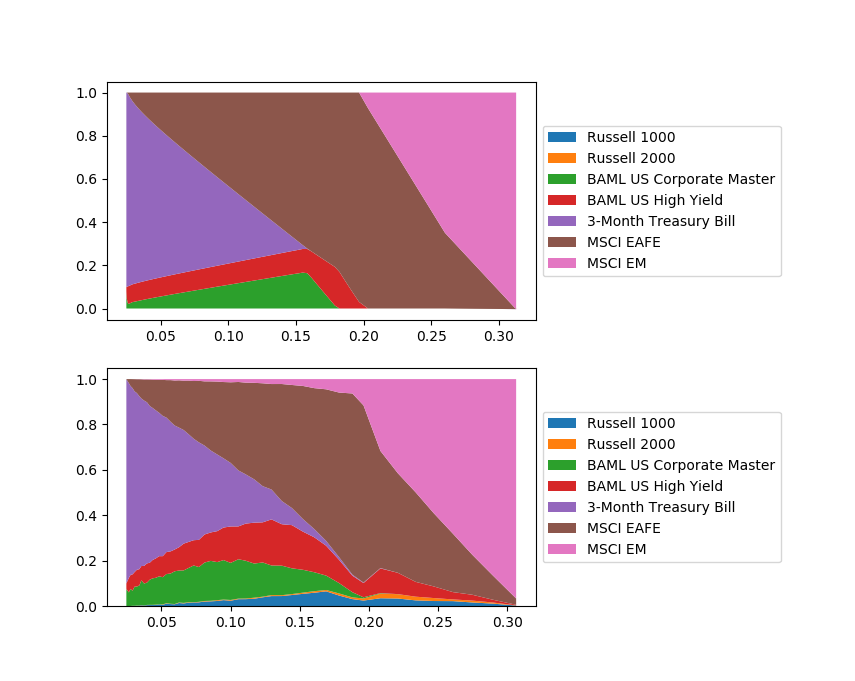
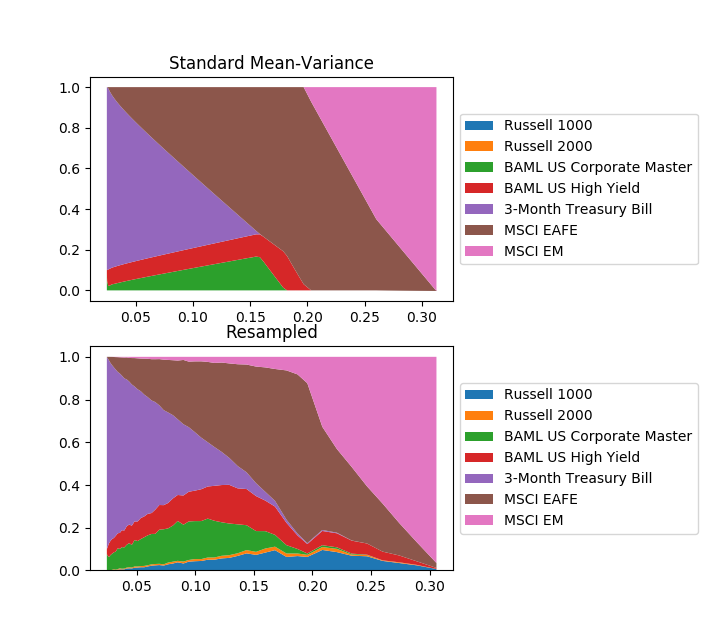
HW2

diff --git a/HW2/HW2.py b/HW2/HW2.py
@@ -9,6 +9,7 @@ import pandas as pd
 import numpy as np
 import matplotlib.pyplot as plt
 from optPort import efficient_frontier,stats
+from BlackLitterman import BL_exp_ret
 
 
 
@@ -110,8 +111,7 @@ def main():
     std_upper = np.amax(std_0)
     
     
-    plt.plot(std_0,mu_0)
-    plt.show()
+
 
     
     stat = np.zeros([1,9]) # 1 + 1 + n
@@ -147,18 +147,26 @@ def main():
         mu = np.append(mu,mu_1)
         std = np.append(std,std_1)
     
-    plt.plot(std, mu, 'r--')
+    [exp_ret_BL,cov_BL] = BL_exp_ret(exp_ret, cov)
+    [mu_BL, std_BL, w_BL] = efficient_frontier(exp_ret_BL,cov_BL,r_min)
+    
+    plt.plot(std_0,mu_0, label = 'Standard Mean-Variance')
+    plt.plot(std, mu, 'r--', label = 'Resampled')
+    plt.plot(std_BL, mu_BL, 'c:', label = 'Black-Litterman Expected Return')
+    plt.title('Efficient Frontier')
+    plt.legend()
     
     plt.figure()
     plt.subplot2grid((2,3),(0,0),colspan=2)
     plt.stackplot(std_0,w_0.T)
+    plt.title('Standard Mean-Variance')
     plt.legend(['Russell 1000', 'Russell 2000', 'BAML US Corporate Master', 
      'BAML US High Yield', '3-Month Treasury Bill', 'MSCI EAFE', 
      'MSCI EM'],loc='center left', bbox_to_anchor=(1, 0.5))
 
     plt.subplot2grid((2,3),(1,0),colspan=2)
     plt.stackplot(std,w.T)
-    
+    plt.title('Resampled')
     plt.legend(['Russell 1000', 'Russell 2000', 'BAML US Corporate Master', 
          'BAML US High Yield', '3-Month Treasury Bill', 'MSCI EAFE', 
          'MSCI EM'],loc='center left', bbox_to_anchor=(1, 0.5))

diff --git a/HW2/BlackLitterman.py b/HW2/BlackLitterman.py
@@ -45,4 +45,4 @@ def BL_exp_ret(exp_ret,cov):
 #    t_cov = tau * cov_BL
     Omega = np.diag(np.diag(np.dot(np.dot(P,tau * cov_BL),np.transpose(P))))
     
-    return inv(inv(tau*cov_BL) + P.T @ inv(Omega) @ P) @ (inv(tau*cov_BL)@Pi+P.T@inv(Omega)@Q)
+    return inv(inv(tau*cov_BL) + P.T @ inv(Omega) @ P) @ (inv(tau*cov_BL)@Pi+P.T@inv(Omega)@Q), np.array(cov_BL)
